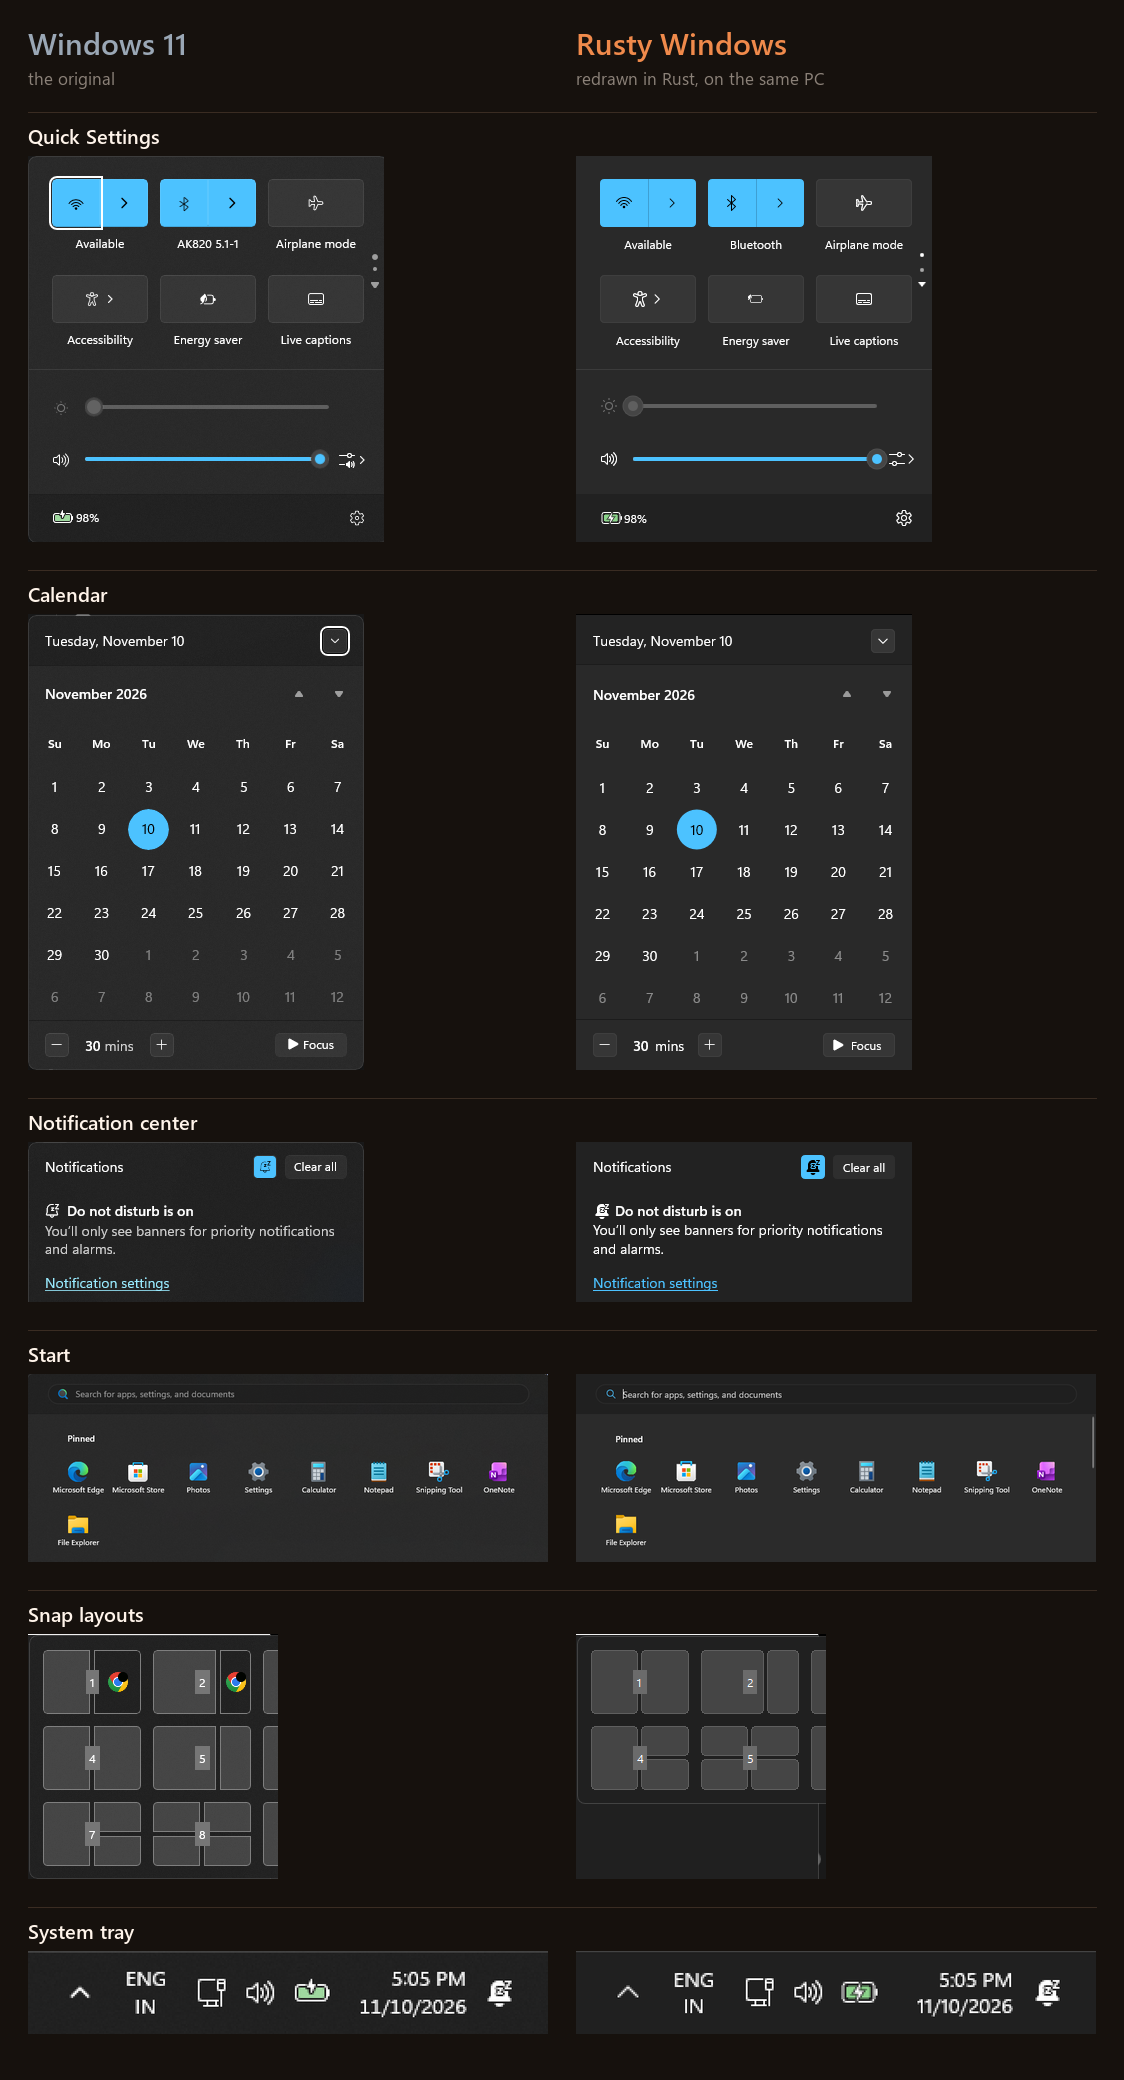
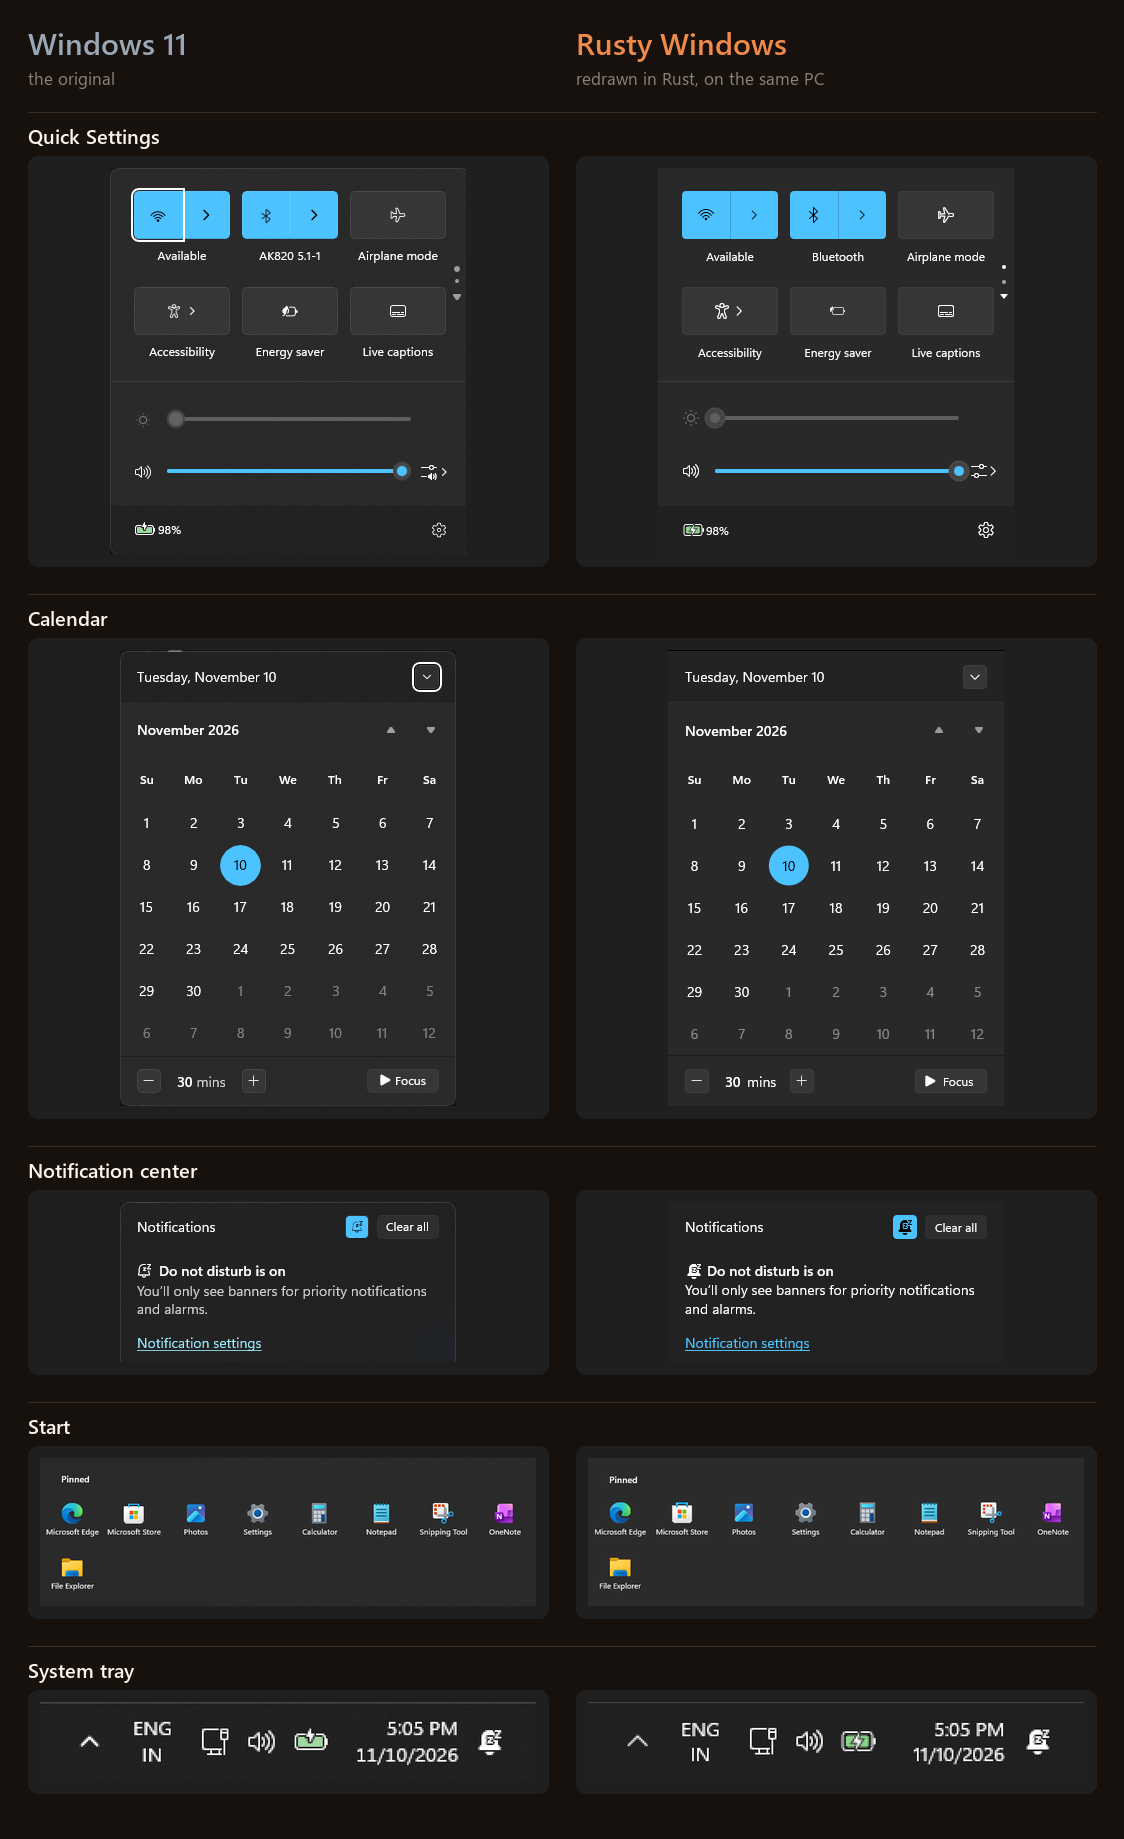
Fix taskbar buttons not closing their panel on a second click; built-in screen snip; Alt+Tab cards share one height; tidier comparison image

diff --git a/src/snip.rs b/src/snip.rs
@@ -1,0 +1,228 @@
+//! Win+Shift+S while we are the shell: Windows' own screen-clip overlay does not come up without
+//! Explorer, so this is ours. Drag a rectangle on a frozen, dimmed picture of the screen; the piece
+//! goes to the clipboard and to Pictures\Screenshots as a PNG. Esc, right-click or clicking away cancels.
+// ponytail: primary monitor, rectangle only (no window / freeform modes, no editor, no delay);
+// add modes when someone asks for them.
+use std::cell::RefCell;
+use std::sync::atomic::{AtomicBool, Ordering::Relaxed};
+use windows::core::*;
+use windows::Win32::Foundation::*;
+use windows::Win32::Graphics::Gdi::*;
+use windows::Win32::Graphics::Imaging::*;
+use windows::Win32::System::Com::*;
+use windows::Win32::System::DataExchange::*;
+use windows::Win32::System::LibraryLoader::GetModuleHandleW;
+use windows::Win32::UI::Input::KeyboardAndMouse::{ReleaseCapture, SetCapture, VK_ESCAPE};
+use windows::Win32::UI::WindowsAndMessaging::*;
+
+static BUSY: AtomicBool = AtomicBool::new(false);
+
+struct St {
+    shot: HBITMAP, // the screen as it was
+    dim: HBITMAP,  // the same, darkened
+    w: i32,
+    h: i32,
+    from: Option<POINT>,
+    to: POINT,
+}
+
+thread_local! {
+    static ST: RefCell<Option<St>> = const { RefCell::new(None) };
+}
+
+/// The rectangle between two corners, whichever way it was dragged.
+pub fn norm(a: (i32, i32), b: (i32, i32)) -> (i32, i32, i32, i32) {
+    (a.0.min(b.0), a.1.min(b.1), a.0.max(b.0), a.1.max(b.1))
+}
+
+/// "Screenshot 2026-11-11 163455.png", the way Windows names them.
+pub fn file_name(y: u16, mo: u16, d: u16, h: u16, mi: u16, s: u16) -> String {
+    format!("Screenshot {y:04}-{mo:02}-{d:02} {h:02}{mi:02}{s:02}.png")
+}
+
+/// Open the overlay on its own thread (the caller is the keyboard hook: it must not wait).
+pub fn start() {
+    if BUSY.swap(true, Relaxed) {
+        return;
+    }
+    std::thread::spawn(|| unsafe {
+        let _ = CoInitializeEx(None, COINIT_APARTMENTTHREADED);
+        let _ = run();
+        BUSY.store(false, Relaxed);
+    });
+}
+
+/// `shellbits --snip`: the same overlay in a process of its own.
+pub unsafe fn run_now() -> Result<()> {
+    let _ = CoInitializeEx(None, COINIT_APARTMENTTHREADED);
+    run()
+}
+
+unsafe fn run() -> Result<()> {
+    let (w, h) = (GetSystemMetrics(SM_CXSCREEN), GetSystemMetrics(SM_CYSCREEN));
+    let screen = GetDC(None);
+    let mem = CreateCompatibleDC(Some(screen));
+    let shot = CreateCompatibleBitmap(screen, w, h);
+    let old = SelectObject(mem, shot.into());
+    let _ = BitBlt(mem, 0, 0, w, h, Some(screen), 0, 0, SRCCOPY | CAPTUREBLT);
+    // darkened copy: the picture with half-transparent black over it
+    let dim = CreateCompatibleBitmap(screen, w, h);
+    let mem2 = CreateCompatibleDC(Some(screen));
+    let old2 = SelectObject(mem2, dim.into());
+    let _ = BitBlt(mem2, 0, 0, w, h, Some(mem), 0, 0, SRCCOPY);
+    let black = CreateCompatibleDC(Some(screen));
+    let dot = CreateCompatibleBitmap(screen, 1, 1);
+    let old3 = SelectObject(black, dot.into());
+    let _ = PatBlt(black, 0, 0, 1, 1, BLACKNESS);
+    let _ = AlphaBlend(mem2, 0, 0, w, h, black, 0, 0, 1, 1, BLENDFUNCTION { BlendOp: 0, BlendFlags: 0, SourceConstantAlpha: 120, AlphaFormat: 0 });
+    SelectObject(black, old3);
+    let _ = DeleteObject(dot.into());
+    let _ = DeleteDC(black);
+    SelectObject(mem2, old2);
+    let _ = DeleteDC(mem2);
+    SelectObject(mem, old);
+    let _ = DeleteDC(mem);
+    ReleaseDC(None, screen);
+    ST.with(|s| *s.borrow_mut() = Some(St { shot, dim, w, h, from: None, to: POINT::default() }));
+
+    let inst: HINSTANCE = GetModuleHandleW(None)?.into();
+    let class = w!("shellbits_snip");
+    RegisterClassW(&WNDCLASSW { lpfnWndProc: Some(proc), hInstance: inst, lpszClassName: class, hCursor: LoadCursorW(None, IDC_CROSS)?, ..Default::default() });
+    let hwnd = CreateWindowExW(WS_EX_TOPMOST | WS_EX_TOOLWINDOW, class, w!(""), WS_POPUP | WS_VISIBLE, 0, 0, w, h, None, None, Some(inst), None)?;
+    crate::flyout::force_foreground(hwnd);
+    let mut msg = MSG::default();
+    while GetMessageW(&mut msg, None, 0, 0).as_bool() {
+        let _ = TranslateMessage(&msg);
+        DispatchMessageW(&msg);
+    }
+    Ok(())
+}
+
+/// Copy the chosen piece to the clipboard and save it as a PNG.
+unsafe fn finish(hwnd: HWND, shot: HBITMAP, r: (i32, i32, i32, i32)) {
+    let (w, h) = (r.2 - r.0, r.3 - r.1);
+    let screen = GetDC(None);
+    let (src, dst) = (CreateCompatibleDC(Some(screen)), CreateCompatibleDC(Some(screen)));
+    let piece = CreateCompatibleBitmap(screen, w, h);
+    let (o1, o2) = (SelectObject(src, shot.into()), SelectObject(dst, piece.into()));
+    let _ = BitBlt(dst, 0, 0, w, h, Some(src), r.0, r.1, SRCCOPY);
+    SelectObject(src, o1);
+    SelectObject(dst, o2);
+    let _ = DeleteDC(src);
+    let _ = DeleteDC(dst);
+    ReleaseDC(None, screen);
+    let _ = save_png(piece);
+    // the clipboard takes the bitmap over: it is not deleted here
+    // (tests set SHELLBITS_SNIP_NO_CLIP so they never overwrite the user's clipboard)
+    if std::env::var_os("SHELLBITS_SNIP_NO_CLIP").is_none() && OpenClipboard(Some(hwnd)).is_ok() {
+        let _ = EmptyClipboard();
+        if SetClipboardData(2 /* CF_BITMAP */, Some(HANDLE(piece.0))).is_err() {
+            let _ = DeleteObject(piece.into());
+        }
+        let _ = CloseClipboard();
+    } else {
+        let _ = DeleteObject(piece.into());
+    }
+}
+
+unsafe fn save_png(piece: HBITMAP) -> Result<()> {
+    let dir = std::path::PathBuf::from(std::env::var("USERPROFILE").unwrap_or_default()).join("Pictures").join("Screenshots");
+    let _ = std::fs::create_dir_all(&dir);
+    let t = windows::Win32::System::SystemInformation::GetLocalTime();
+    let path = dir.join(file_name(t.wYear, t.wMonth, t.wDay, t.wHour, t.wMinute, t.wSecond));
+    let wic: IWICImagingFactory = CoCreateInstance(&CLSID_WICImagingFactory, None, CLSCTX_INPROC_SERVER)?;
+    let bmp = wic.CreateBitmapFromHBITMAP(piece, HPALETTE::default(), WICBitmapIgnoreAlpha)?;
+    let stream = wic.CreateStream()?;
+    stream.InitializeFromFilename(&HSTRING::from(path.as_os_str()), GENERIC_WRITE.0)?;
+    let enc = wic.CreateEncoder(&GUID_ContainerFormatPng, std::ptr::null())?;
+    enc.Initialize(&stream, WICBitmapEncoderNoCache)?;
+    let mut frame = None;
+    enc.CreateNewFrame(&mut frame, std::ptr::null_mut())?;
+    let frame = frame.ok_or_else(Error::empty)?;
+    frame.Initialize(None)?;
+    frame.WriteSource(&bmp, std::ptr::null())?;
+    frame.Commit()?;
+    enc.Commit()
+}
+
+unsafe extern "system" fn proc(hwnd: HWND, msg: u32, wp: WPARAM, lp: LPARAM) -> LRESULT {
+    let pt = || POINT { x: (lp.0 & 0xFFFF) as i16 as i32, y: ((lp.0 >> 16) & 0xFFFF) as i16 as i32 };
+    match msg {
+        WM_ERASEBKGND => return LRESULT(1),
+        WM_PAINT => {
+            let mut ps = PAINTSTRUCT::default();
+            let dc = BeginPaint(hwnd, &mut ps);
+            ST.with(|s| {
+                if let Some(st) = s.borrow().as_ref() {
+                    // compose off screen, then show in one go (no flicker while dragging)
+                    let (back, src) = (CreateCompatibleDC(Some(dc)), CreateCompatibleDC(Some(dc)));
+                    let buf = CreateCompatibleBitmap(dc, st.w, st.h);
+                    let ob = SelectObject(back, buf.into());
+                    let os = SelectObject(src, st.dim.into());
+                    let _ = BitBlt(back, 0, 0, st.w, st.h, Some(src), 0, 0, SRCCOPY);
+                    if let Some(a) = st.from {
+                        let r = norm((a.x, a.y), (st.to.x, st.to.y));
+                        SelectObject(src, st.shot.into());
+                        let _ = BitBlt(back, r.0, r.1, r.2 - r.0, r.3 - r.1, Some(src), r.0, r.1, SRCCOPY);
+                        FrameRect(back, &RECT { left: r.0 - 1, top: r.1 - 1, right: r.2 + 1, bottom: r.3 + 1 }, HBRUSH(GetStockObject(WHITE_BRUSH).0));
+                    }
+                    let _ = BitBlt(dc, 0, 0, st.w, st.h, Some(back), 0, 0, SRCCOPY);
+                    SelectObject(src, os);
+                    SelectObject(back, ob);
+                    let _ = DeleteObject(buf.into());
+                    let _ = DeleteDC(src);
+                    let _ = DeleteDC(back);
+                }
+            });
+            let _ = EndPaint(hwnd, &ps);
+        }
+        WM_LBUTTONDOWN => {
+            let p = pt();
+            ST.with(|s| if let Some(st) = s.borrow_mut().as_mut() { st.from = Some(p); st.to = p; });
+            SetCapture(hwnd);
+        }
+        WM_MOUSEMOVE => {
+            let p = pt();
+            if ST.with(|s| s.borrow_mut().as_mut().is_some_and(|st| { st.to = p; st.from.is_some() })) {
+                let _ = InvalidateRect(Some(hwnd), None, false);
+            }
+        }
+        WM_LBUTTONUP => {
+            let _ = ReleaseCapture();
+            // copy what is needed out before anything that sends messages
+            let p = pt(); // where the button came up, not the last move seen
+            let pick = ST.with(|s| s.borrow().as_ref().and_then(|st| st.from.map(|a| (st.shot, norm((a.x, a.y), (p.x, p.y))))));
+            let _ = ShowWindow(hwnd, SW_HIDE);
+            if let Some((shot, r)) = pick {
+                if r.2 - r.0 > 2 && r.3 - r.1 > 2 {
+                    finish(hwnd, shot, r);
+                }
+            }
+            let _ = DestroyWindow(hwnd);
+        }
+        WM_RBUTTONUP => { let _ = DestroyWindow(hwnd); }
+        WM_KEYDOWN if wp.0 as u16 == VK_ESCAPE.0 => { let _ = DestroyWindow(hwnd); }
+        WM_ACTIVATE if (wp.0 & 0xFFFF) as u32 == WA_INACTIVE => { let _ = DestroyWindow(hwnd); }
+        WM_DESTROY => {
+            if let Some(st) = ST.with(|s| s.borrow_mut().take()) {
+                let _ = DeleteObject(st.shot.into());
+                let _ = DeleteObject(st.dim.into());
+            }
+            PostQuitMessage(0);
+        }
+        _ => return DefWindowProcW(hwnd, msg, wp, lp),
+    }
+    LRESULT(0)
+}
+
+#[cfg(test)]
+mod tests {
+    use super::*;
+
+    #[test]
+    fn rectangle_and_name() {
+        assert_eq!(norm((50, 80), (10, 20)), (10, 20, 50, 80)); // dragged up and left
+        assert_eq!(norm((10, 80), (50, 20)), (10, 20, 50, 80));
+        assert_eq!(file_name(2026, 11, 1, 9, 5, 7), "Screenshot 2026-11-01 090507.png");
+    }
+}

diff --git a/src/alttab.rs b/src/alttab.rs
@@ -36,7 +36,7 @@ const T_SHOW: usize = 1;
 const SHOW_DELAY_MS: u32 = 150; // quicker Alt+Tab = switch without flashing the UI, like Windows
 
 // layout, DIPs
-const TW: f32 = 260.0; // thumbnail box
+const TW: f32 = 338.0; // thumbnail box: wide enough for a 16:9 window at full height, so cards share one height like Windows
 const TH: f32 = 190.0;
 const HEAD: f32 = 32.0; // icon + title row
 const IN: f32 = 8.0; // card inner padding
@@ -153,7 +153,15 @@ pub(crate) unsafe fn frame(h: HWND) -> (f32, Option<RECT>) {
     if IsIconic(h).as_bool() {
         let mut wp = WINDOWPLACEMENT { length: size_of::<WINDOWPLACEMENT>() as u32, ..Default::default() };
         let _ = GetWindowPlacement(h, &mut wp);
-        let r = wp.rcNormalPosition;
+        let mut r = wp.rcNormalPosition;
+        // minimised from maximised (WPF_RESTORETOMAXIMIZED): it comes back filling the work area, and
+        // its picture has that shape - the small "restored" rectangle gave a squeezed card
+        if wp.flags.0 & 2 != 0 {
+            let mut mi = MONITORINFO { cbSize: size_of::<MONITORINFO>() as u32, ..Default::default() };
+            if GetMonitorInfoW(MonitorFromWindow(h, MONITOR_DEFAULTTONEAREST), &mut mi).as_bool() {
+                r = mi.rcWork;
+            }
+        }
         return (((r.right - r.left) as f32 / (r.bottom - r.top).max(1) as f32), None);
     }
     let (mut wr, mut fb) = (RECT::default(), RECT::default());

diff --git a/src/launcher.rs b/src/launcher.rs
@@ -1990,7 +1990,7 @@ pub unsafe fn on_key(k: &KBDLLHOOKSTRUCT, up: bool) -> bool {
 }
 
 /// Close any open panel the click landed outside of (a panel and its companion count as one).
-unsafe fn dismiss_outside(pt: POINT) {
+pub(crate) unsafe fn dismiss_outside(pt: POINT) {
     let h = |a: &AtomicIsize| HWND(a.load(Relaxed) as *mut c_void);
     let groups = [
         [h(&LAUNCHER), h(&PILL)],
@@ -2010,6 +2010,13 @@ unsafe fn dismiss_outside(pt: POINT) {
         r[2] > r[0] && (r[0]..r[2]).contains(&pt.x) && (r[1]..r[3]).contains(&pt.y)
     });
     if on_zone {
+        return;
+    }
+    // the same goes for our own taskbar (shell mode): its click handler opens AND closes the panel.
+    // Closing here on the press made the release open it again, so a second click never closed it.
+    let bar = HWND(crate::taskbar::TASKBAR.load(Relaxed) as *mut c_void);
+    let mut br = RECT::default();
+    if IsWindowVisible(bar).as_bool() && GetWindowRect(bar, &mut br).is_ok() && PtInRect(&br, pt).as_bool() {
         return;
     }
     for g in groups {

diff --git a/src/notify.rs b/src/notify.rs
@@ -835,11 +835,17 @@ pub unsafe fn toggle(nc: HWND) {
         hide();
         return;
     }
+    let t0 = std::time::Instant::now();
     ST.with(|s| { let mut st = s.borrow_mut(); st.scroll = 0.0; st.month_off = 0; refresh_local(&mut st); });
+    let t1 = t0.elapsed().as_millis();
     place();
+    let t2 = t0.elapsed().as_millis();
     SHOWN_AT.with(|t| t.set(Some(std::time::Instant::now())));
     crate::flyout::force_foreground(nc);
     fetch_async();
+    // how long opening took on the UI thread (it also serves the taskbar): keep an eye on it
+    let _ = std::fs::write(std::env::temp_dir().join("shellbits-nc-open.txt"), format!("state {t1} ms, placed {t2} ms, focused {} ms
+", t0.elapsed().as_millis()));
 }
 
 unsafe fn hide() {

diff --git a/src/main.rs b/src/main.rs
@@ -16,6 +16,7 @@ mod notepad;
 mod notify;
 mod peek;
 mod snap;
+mod snip;
 mod clip;
 mod emoji;
 mod lang;
@@ -132,6 +133,9 @@ fn main() -> windows::core::Result<()> {
         if args.get(1).map(String::as_str) == Some("--snapshot-qs") {
             let _ = CoInitializeEx(None, COINIT_APARTMENTTHREADED);
             return quick::snapshot(args.get(2).map(String::as_str).unwrap_or("qs.bmp"), args.get(3).map(String::as_str).unwrap_or(""));
+        }
+        if args.get(1).map(String::as_str) == Some("--snip") {
+            return snip::run_now();
         }
         if args.get(1).map(String::as_str) == Some("--snapshot-calc") {
             let _ = CoInitializeEx(None, COINIT_APARTMENTTHREADED);

diff --git a/src/session.rs b/src/session.rs
@@ -339,7 +339,7 @@ pub fn hotkey(vk: u32, shift: bool) -> bool {
         match (vk as u8, shift) {
             (b'E', false) => open(w!("explorer.exe")),
             (b'I', false) => open(w!("ms-settings:")),
-            (b'S', true) => open(w!("ms-screenclip:")),
+            (b'S', true) => crate::snip::start(), // Windows' own overlay does not appear without Explorer
             (b'D', false) => show_desktop(true),
             (b'M', false) => show_desktop(false),
             (b'L', false) => {

diff --git a/src/taskbar.rs b/src/taskbar.rs
@@ -696,7 +696,8 @@ pub unsafe extern "system" fn proc(hwnd: HWND, msg: u32, wp: WPARAM, lp: LPARAM)
                     let _ = GetCursorPos(&mut pt);
                     crate::tray::click(i, 0, pt.x, pt.y);
                 }
-                None => {}
+                // an empty part of the bar: close whatever panel is open, like a click anywhere else
+                None => crate::launcher::dismiss_outside(POINT { x: -32000, y: -32000 }),
             }
         }
         WM_LBUTTONDBLCLK => {

diff --git a/README.md b/README.md
@@ -30,8 +30,8 @@ Windows on the left, Rusty Windows on the right, captured on the same PC.
 
 <p align="center"><img src="assets/flyouts.png" alt="Windows 11 flyouts next to their Rust versions: Quick Settings, calendar, notification center, Start, snap layouts and system tray" width="85%"></p>
 
-Not yet captured side by side: Alt+Tab, Task View, Win+X, Run, clipboard history, the emoji panel
-and the volume and media flyouts.
+Not yet captured side by side: Alt+Tab, Task View, snap layouts, Win+X, Run, clipboard history,
+the emoji panel and the volume and media flyouts.
 
 ## What is in it
 
@@ -89,7 +89,8 @@ difficulty for every line are in [GOALS.md](docs/GOALS.md).
 - [ ] Settings sub-pages (partial), Control Panel
 - [ ] File Explorer (partial: tabs, preview, commands), Open and Save dialogs
 - [ ] Notepad (partial: no tabs or spell check)
-- [ ] Task Manager, Snipping Tool, Photos, Media Player, Paint, Terminal
+- [ ] Screen snip (partial: Win+Shift+S rectangle to clipboard and PNG; no editor or other modes)
+- [ ] Task Manager, Photos, Media Player, Paint, Terminal
 - [ ] Clock, Sound Recorder, Camera, Sticky Notes, Magnifier, On-Screen Keyboard
 - [ ] Registry Editor, Event Viewer, Services, Device Manager, Disk Management, Task Scheduler
 - [ ] Resource Monitor, Remote Desktop, Store, Windows Security dashboard, Game Bar

diff --git a/docs/FEATURES.md b/docs/FEATURES.md
@@ -21,6 +21,7 @@ real Windows window at the same size. The project target is 99.99%. "Not measure
 | Emoji panel | `emoji.rs` | search, insert | not measured |
 | Language switcher | `lang.rs` | list, click to switch | not measured |
 | Desktop | `desktop.rs`, `wallpaper.rs`, `peek.rs` | icons, video wallpaper (picks a copy scaled to your screen), show desktop, peek | not measured |
+| Screen snip | `snip.rs` | Win+Shift+S in shell mode (or `--snip`): drag a rectangle, copied to the clipboard and saved to Pictures\Screenshots | n/a |
 | Shell mode | `session.rs`, `main.rs` | runs instead of Explorer, starts your sign-in apps, crash watchdog (restart in 4 to 8 s, at most 3 a minute), Ctrl+Alt+Shift+E back to Explorer | n/a |
 
 ## Apps

diff --git a/docs/GOALS.md b/docs/GOALS.md
@@ -66,7 +66,8 @@ system. Levels 3 and 4 are long-term and may only ever run on machines whose own
 | Calculator: Programmer, Date, Graphing, converters | Planned | 1 |
 | Notepad | Partial (no tabs, no spell check) | 1 |
 | Task Manager | Planned | 2 |
-| Snipping Tool and screen recording | Planned | 2 |
+| Snipping Tool: rectangle snip to clipboard and PNG | Done | 1 |
+| Snipping Tool: window and freeform modes, editor, screen recording | Planned | 2 |
 | Photos viewer and editor | Planned | 2 |
 | Media Player, Movies & TV | Planned | 2 |
 | Paint | Planned | 2 |
